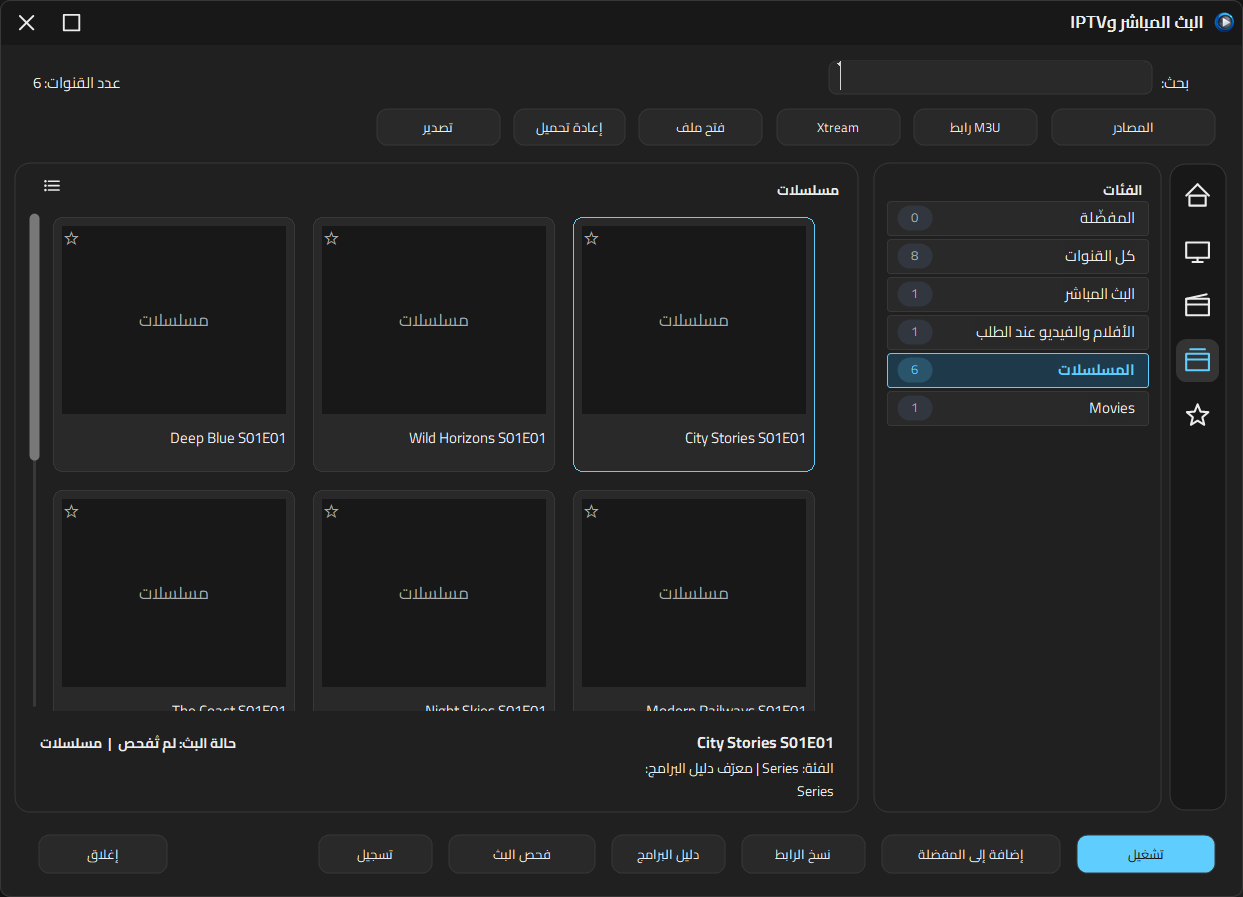
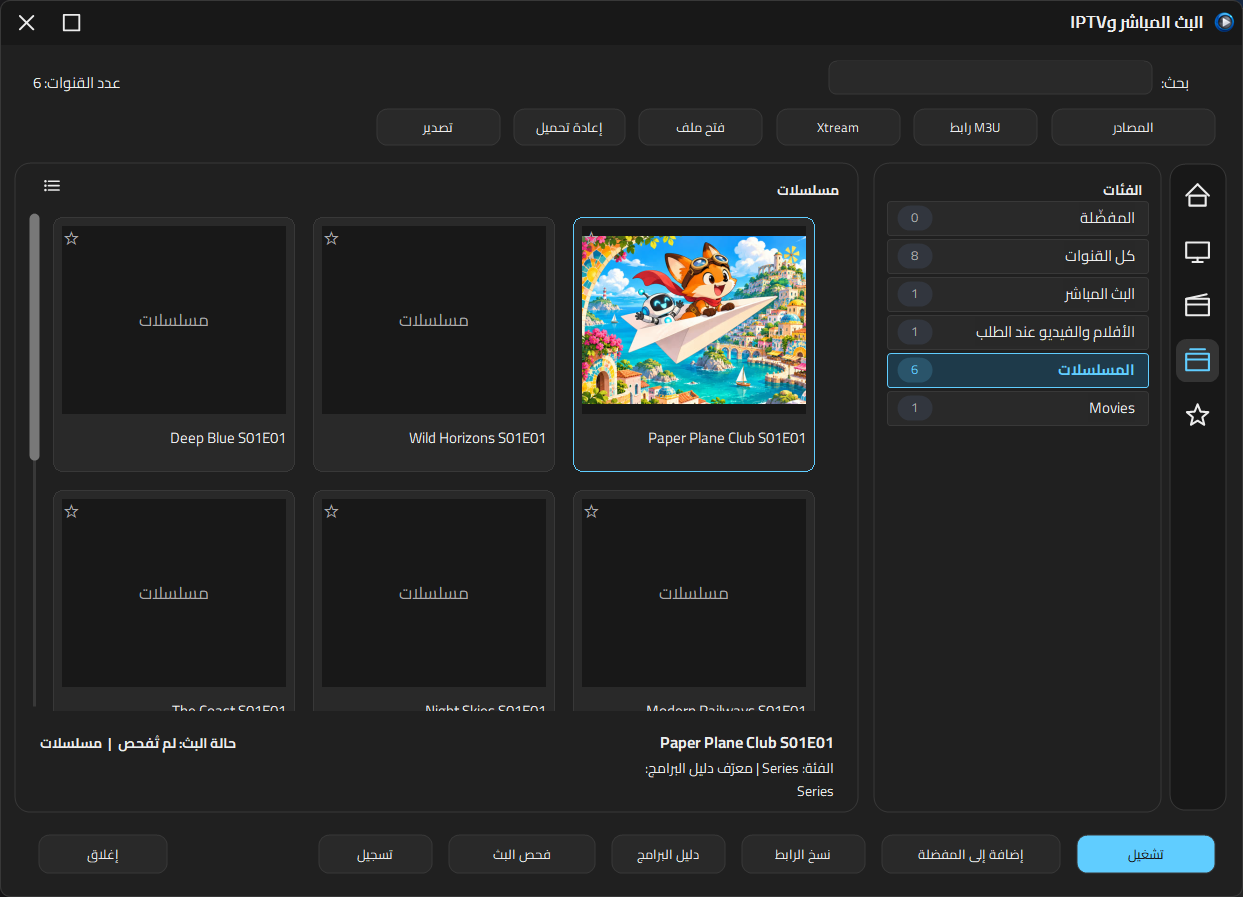
Refresh IPTV preview with light palette and original artwork

Changed region(s): [[0.4586, 0.2497, 0.6726, 0.4994], [0.5197, 0.8116, 0.642, 0.8428]]

diff --git a/index.html b/index.html
@@ -44,10 +44,10 @@
 <a href="assets/light-preferences.png"><img src="assets/light-preferences.png" alt="Light Mode settings" loading="lazy"><span lang="en">Settings · Light Mode</span><span lang="ar">الإعدادات · فاتح</span></a>
 <a href="assets/iptv-en.png"><img src="assets/iptv-en.png" alt="IPTV library in English" loading="lazy"><span lang="en">IPTV in English</span><span lang="ar">مكتبة IPTV بالإنجليزي</span></a>
 <a href="assets/iptv-ar.png"><img src="assets/iptv-ar.png" alt="مكتبة IPTV بالعربية" loading="lazy"><span lang="en">IPTV in Arabic</span><span lang="ar">مكتبة IPTV بالعربي</span></a>
-<a href="assets/iptv-ar-grid-dark.png"><img src="assets/iptv-ar-grid-dark.png" alt="IPTV cards in Arabic, dark theme" loading="lazy"><span lang="en">IPTV cards · Arabic · dark</span><span lang="ar">بطاقات IPTV بالعربي · داكن</span></a>
-<a href="assets/iptv-ar-grid-light.png"><img src="assets/iptv-ar-grid-light.png" alt="IPTV cards in Arabic, light theme" loading="lazy"><span lang="en">IPTV cards · Arabic · light</span><span lang="ar">بطاقات IPTV بالعربي · فاتح</span></a>
-<a href="assets/iptv-en-grid-dark.png"><img src="assets/iptv-en-grid-dark.png" alt="IPTV cards in English, dark theme" loading="lazy"><span lang="en">IPTV cards · English · dark</span><span lang="ar">بطاقات IPTV بالإنجليزي · داكن</span></a>
-<a href="assets/iptv-en-grid-light.png"><img src="assets/iptv-en-grid-light.png" alt="IPTV cards in English, light theme" loading="lazy"><span lang="en">IPTV cards · English · light</span><span lang="ar">بطاقات IPTV بالإنجليزي · فاتح</span></a>
+<a href="assets/iptv-ar-grid-dark.png"><img src="assets/iptv-ar-grid-dark.png" alt="IPTV cards in Arabic, dark theme" loading="lazy"><span lang="en">IPTV preview · Arabic · dark</span><span lang="ar">معاينة بطاقات IPTV بالعربي · داكن</span></a>
+<a href="assets/iptv-ar-grid-light.png"><img src="assets/iptv-ar-grid-light.png" alt="IPTV cards in Arabic, light theme" loading="lazy"><span lang="en">IPTV preview · Arabic · light</span><span lang="ar">معاينة بطاقات IPTV بالعربي · فاتح</span></a>
+<a href="assets/iptv-en-grid-dark.png"><img src="assets/iptv-en-grid-dark.png" alt="IPTV cards in English, dark theme" loading="lazy"><span lang="en">IPTV preview · English · dark</span><span lang="ar">معاينة بطاقات IPTV بالإنجليزي · داكن</span></a>
+<a href="assets/iptv-en-grid-light.png"><img src="assets/iptv-en-grid-light.png" alt="IPTV cards in English, light theme" loading="lazy"><span lang="en">IPTV preview · English · light</span><span lang="ar">معاينة بطاقات IPTV بالإنجليزي · فاتح</span></a>
 <a href="assets/open-media.png"><img src="assets/open-media.png" alt="Network stream setup and cache settings" loading="lazy"><span lang="en">Network streams</span><span lang="ar">بث الشبكة</span></a>
 <a href="assets/convert-stream.png"><img src="assets/convert-stream.png" alt="Convert and Stream Media dialog" loading="lazy"><span lang="en">Media conversion</span><span lang="ar">تحويل الوسائط</span></a>
 <a href="assets/playlist.png"><img src="assets/playlist.png" alt="Docked playlist during playback" loading="lazy"><span lang="en">Docked playlist</span><span lang="ar">قائمة التشغيل الجانبية</span></a>
